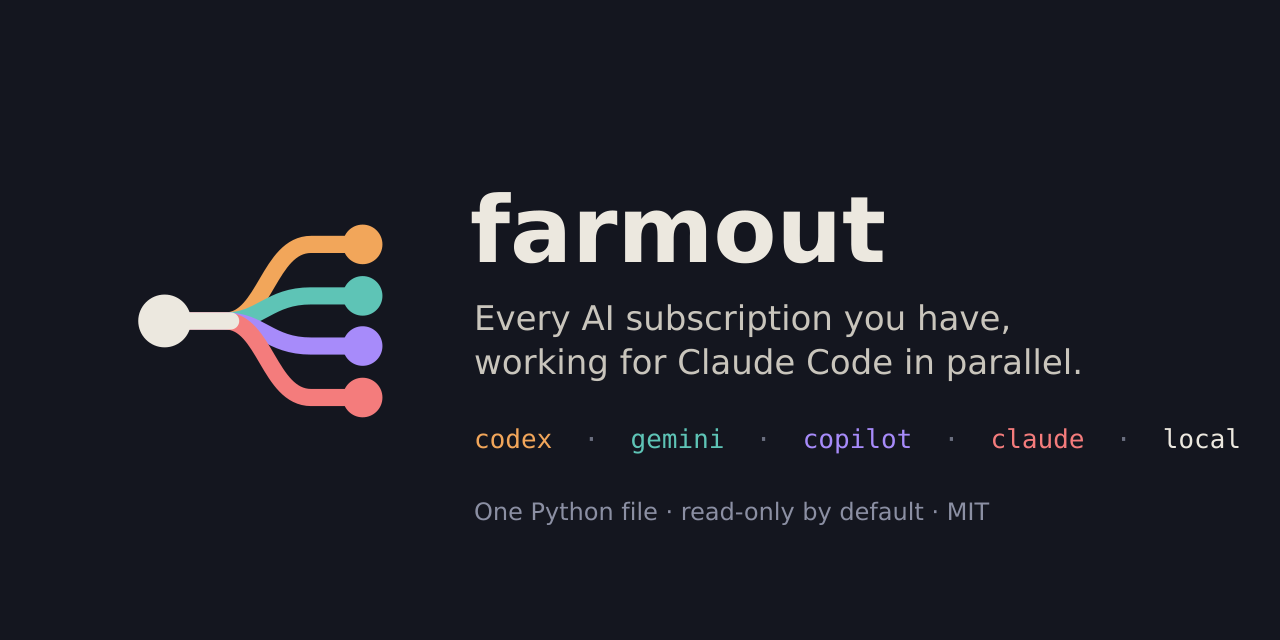
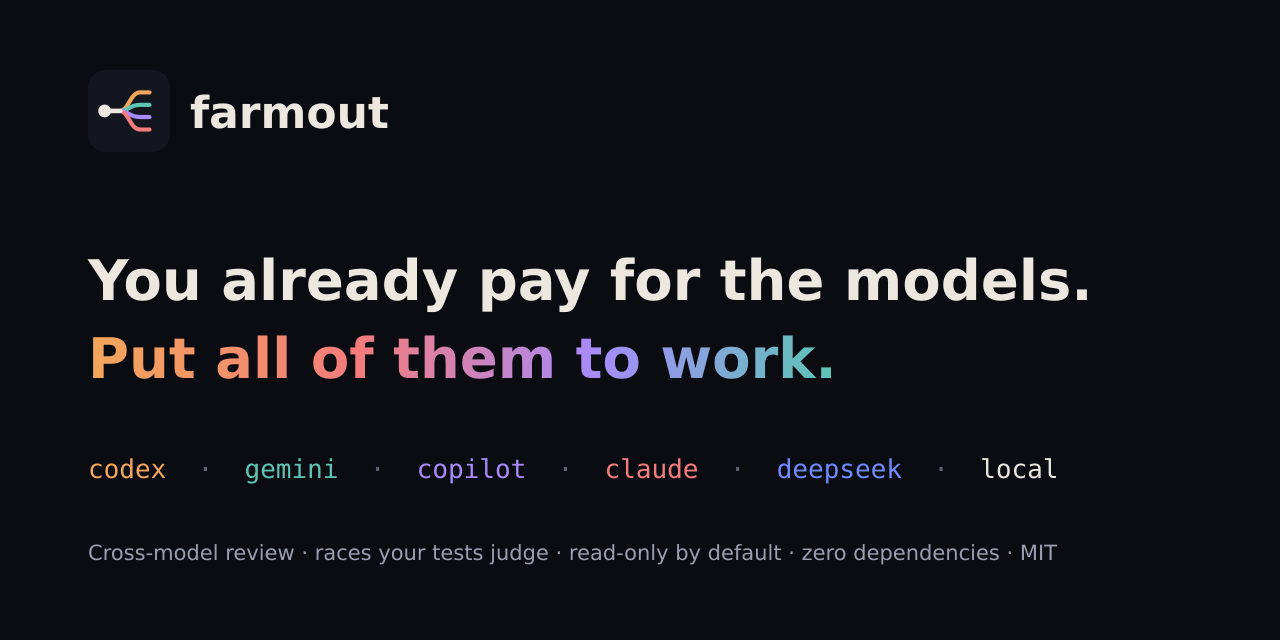
Public-preview note, a current social card, one changelog section for 0.1.0
The README says farmout is in public preview and points feedback to
Discussions. The social preview image carries the site's message and the
DeepSeek worker instead of the old one-file MCP pitch. CHANGELOG folds the
earlier MCP-only notes and Unreleased into a single 0.1.0 section, so the
release tag only needs its date, and CONTRIBUTING notes the PyPI upload.

diff --git a/CHANGELOG.md b/CHANGELOG.md
@@ -4,6 +4,8 @@ All notable changes to farmout are recorded here. The format follows [Keep a Cha
 
 ## [Unreleased]
 
+## [0.1.0] - unreleased
+
 ### Added
 
 - **A command line:** `farmout` (`pip install .`, or `python3 server.py <command>`), with `--json` and exit codes on every command, and prompts from stdin (`git diff | farmout ask "..."`).
@@ -38,6 +40,10 @@ All notable changes to farmout are recorded here. The format follows [Keep a Cha
 - **Live lanes:** while `review`, `race`, `ask`, `fix-pr` and `bench` run, a terminal shows one row per worker: working, then its findings, its test result or its failure, with the time. Only on a terminal; `--json`, pipes and the MCP server see nothing, `NO_COLOR` drops the colours and `FARMOUT_LIVE=0` the lanes.
 - **`farmout bench --share`**: the scores as a post that fits on X, an image card (SVG, plus PNG when librsvg or ImageMagick is installed) and a one-click post link. Scores only: no repository name, file names or code.
 - **`deepseek` worker (experimental):** DeepSeek Harness (`dsh headless --json`), read-only by default (`--permission-mode read-only --approval-policy never`), resumed with `--session-id`. The README also shows DeepSeek's API on the `api` worker and how to run farmout inside DeepSeek Harness as an MCP server.
+- MCP server with a `delegate` tool, 4 workers, parallel execution, cancellation that kills the process group, timeouts, result files and an output cap.
+- Read-only and write flags verified against agy 1.4.6, codex-cli 0.163.0 and Claude Code 2.1.323.
+- Workers are auto-detected; no personal paths in the code.
+- README, LICENSE (MIT) and .gitignore.
 
 ### Changed
 
@@ -57,12 +63,3 @@ All notable changes to farmout are recorded here. The format follows [Keep a Cha
 - `farmout review` mixed up different defects cited on the same or neighbouring lines: findings joined the first group that would take them, so a real run credited codex with a missing-row crash it never reported and inflated agreement counts. Findings are now grouped most-similar first (average linkage over a Dice word overlap), words a model repeats across its own findings (`file`, `quota`) count for little, and light stemming plus a few synonyms (`concurrent` and `race`) match different wordings of one bug. Three real four-model runs, grouped by hand, are regression tests.
 - A command given a prompt (`farmout race "..."`, `run`, `ask`, ...) hung forever when stdin was an open socket or device that never closes, as in background jobs of some agent harnesses. Only a pipe or a redirected file is read as piped input now.
 - On macOS, stopping a session crashed when `ps` wasn't on PATH; farmout now asks `/bin/ps`, and treats a process it can't check as not its own.
-
-## [0.1.0] - unreleased
-
-### Added
-
-- MCP server with a `delegate` tool, 4 workers, parallel execution, cancellation that kills the process group, timeouts, result files and an output cap.
-- Read-only and write flags verified against agy 1.4.6, codex-cli 0.163.0 and Claude Code 2.1.323.
-- Workers are auto-detected; no personal paths in the code.
-- README, LICENSE (MIT) and .gitignore.

diff --git a/CONTRIBUTING.md b/CONTRIBUTING.md
@@ -89,6 +89,6 @@ See [store/README.md](store/README.md): one folder per entry with an `entry.json
 1. Run `python3 tests/smoke.py` (workers) and `sh tests/plugin_smoke.sh` (slash commands run headless without permission errors); if CLI versions changed, update "Tested with" in README.md.
 2. Bump the version in `farmout/__init__.py`, `pyproject.toml` and `.claude-plugin/plugin.json`. The offline suite fails if they differ.
 3. Move the Unreleased notes in CHANGELOG.md under `## [X.Y.Z] - YYYY-MM-DD`.
-4. Commit, then `git tag vX.Y.Z && git push --follow-tags`. The release workflow re-runs the tests, checks the tag against `farmout/__init__.py` and publishes a GitHub Release with that version's CHANGELOG notes.
+4. Commit, then `git tag vX.Y.Z && git push --follow-tags`. The release workflow re-runs the tests, checks the tag against `farmout/__init__.py`, publishes a GitHub Release with that version's CHANGELOG notes, and uploads the package to PyPI through trusted publishing (set up once on pypi.org for `release.yml` and the `pypi` environment).
 
 Security reports go through [SECURITY.md](SECURITY.md), not public issues.

diff --git a/README.md b/README.md
@@ -10,6 +10,8 @@
 ![MCP](https://img.shields.io/badge/MCP-stdio-6e56cf)
 ![license](https://img.shields.io/badge/license-MIT-blue)
 
+> **Public preview.** Try it, tell us what breaks in [Discussions](https://github.com/JayPokale/farmout/discussions), and star or watch the repo to hear when 0.1.0 ships.
+
 ```bash
 pipx install git+https://github.com/JayPokale/farmout
 cd your-repo && farmout bench --share   # which of your AI subscriptions finds real bugs in your own code?
